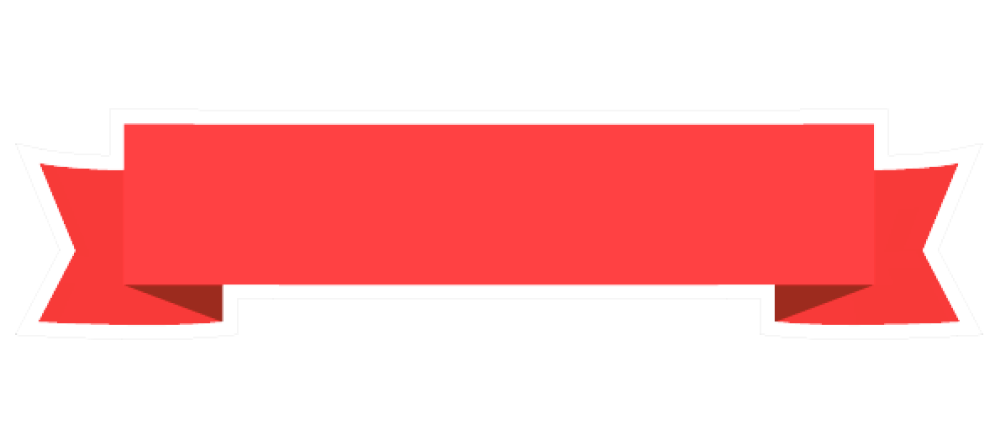
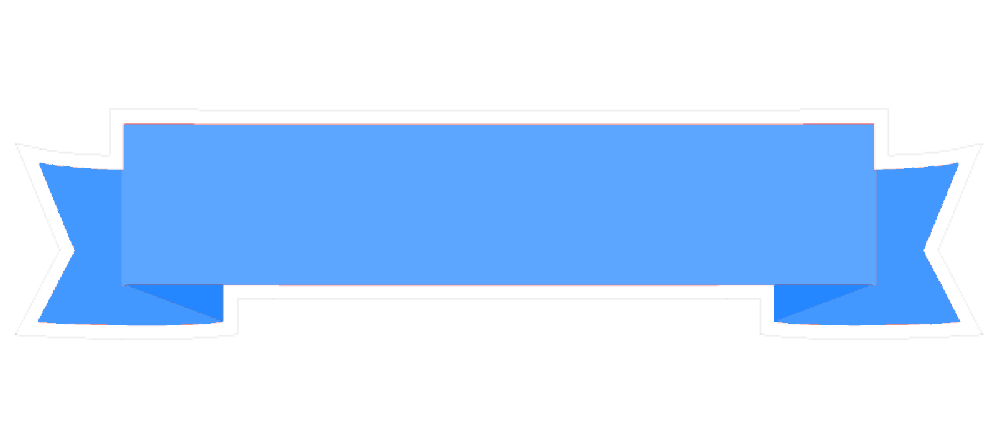
Cores atualizadas

diff --git a/Focus/src/screens/stack/MainTab.js b/Focus/src/screens/stack/MainTab.js
@@ -16,7 +16,7 @@ export default function MainTab() {
                 borderTopRightRadius: 20,
                 height: 55,
                 position: "absolute",
-                backgroundColor: '#015958'
+                backgroundColor: '#2461AA'
             },
             tabBarLabelStyle: {
                 fontWeight: 700,

diff --git a/Focus/src/screens/Levels/Level01/style.js b/Focus/src/screens/Levels/Level01/style.js
@@ -39,7 +39,7 @@ const styles = StyleSheet.create({
         alignSelf: 'center',
         position: 'absolute',
         borderWidth: 10,
-        borderColor: '#FF3527',
+        borderColor: '#2461AA',
         borderRadius: 20
     },
 

diff --git a/Focus/src/screens/Levels/Level02/style.js b/Focus/src/screens/Levels/Level02/style.js
@@ -39,7 +39,7 @@ const styles = StyleSheet.create({
         alignSelf: 'center',
         position: 'absolute',
         borderWidth: 10,
-        borderColor: '#FF3527',
+        borderColor: '#2461AA',
         borderRadius: 20
     },
 

diff --git a/Focus/src/screens/Levels/Level03/style.js b/Focus/src/screens/Levels/Level03/style.js
@@ -39,7 +39,7 @@ const styles = StyleSheet.create({
         alignSelf: 'center',
         position: 'absolute',
         borderWidth: 10,
-        borderColor: '#FF3527',
+        borderColor: '#2461AA',
         borderRadius: 20
     },
 

diff --git a/Focus/src/screens/Levels/Level04/style.js b/Focus/src/screens/Levels/Level04/style.js
@@ -39,7 +39,7 @@ const styles = StyleSheet.create({
         alignSelf: 'center',
         position: 'absolute',
         borderWidth: 10,
-        borderColor: '#FF3527',
+        borderColor: '#2461AA',
         borderRadius: 20
     },
 

diff --git a/Focus/src/screens/Levels/Level05/style.js b/Focus/src/screens/Levels/Level05/style.js
@@ -39,7 +39,7 @@ const styles = StyleSheet.create({
         alignSelf: 'center',
         position: 'absolute',
         borderWidth: 10,
-        borderColor: '#FF3527',
+        borderColor: '#2461AA',
         borderRadius: 20
     },
 

diff --git a/Focus/src/screens/Levels/Level06/style.js b/Focus/src/screens/Levels/Level06/style.js
@@ -39,7 +39,7 @@ const styles = StyleSheet.create({
         alignSelf: 'center',
         position: 'absolute',
         borderWidth: 10,
-        borderColor: '#FF3527',
+        borderColor: '#2461AA',
         borderRadius: 20
     },
 

diff --git a/Focus/src/screens/Levels/Level07/style.js b/Focus/src/screens/Levels/Level07/style.js
@@ -39,7 +39,7 @@ const styles = StyleSheet.create({
         alignSelf: 'center',
         position: 'absolute',
         borderWidth: 10,
-        borderColor: '#FF3527',
+        borderColor: '#2461AA',
         borderRadius: 20
     },
 

diff --git a/Focus/src/screens/Levels/Level08/style.js b/Focus/src/screens/Levels/Level08/style.js
@@ -39,7 +39,7 @@ const styles = StyleSheet.create({
         alignSelf: 'center',
         position: 'absolute',
         borderWidth: 10,
-        borderColor: '#FF3527',
+        borderColor: '#2461AA',
         borderRadius: 20
     },
 

diff --git a/Focus/src/screens/Levels/Level09/style.js b/Focus/src/screens/Levels/Level09/style.js
@@ -39,7 +39,7 @@ const styles = StyleSheet.create({
         alignSelf: 'center',
         position: 'absolute',
         borderWidth: 10,
-        borderColor: '#FF3527',
+        borderColor: '#2461AA',
         borderRadius: 20
     },
 

diff --git a/Focus/src/screens/Levels/Level10/style.js b/Focus/src/screens/Levels/Level10/style.js
@@ -39,7 +39,7 @@ const styles = StyleSheet.create({
         alignSelf: 'center',
         position: 'absolute',
         borderWidth: 10,
-        borderColor: '#FF3527',
+        borderColor: '#2461AA',
         borderRadius: 20
     },
 

diff --git a/Focus/src/screens/Levels/Level11/style.js b/Focus/src/screens/Levels/Level11/style.js
@@ -39,7 +39,7 @@ const styles = StyleSheet.create({
         alignSelf: 'center',
         position: 'absolute',
         borderWidth: 10,
-        borderColor: '#FF3527',
+        borderColor: '#2461AA',
         borderRadius: 20
     },
 
